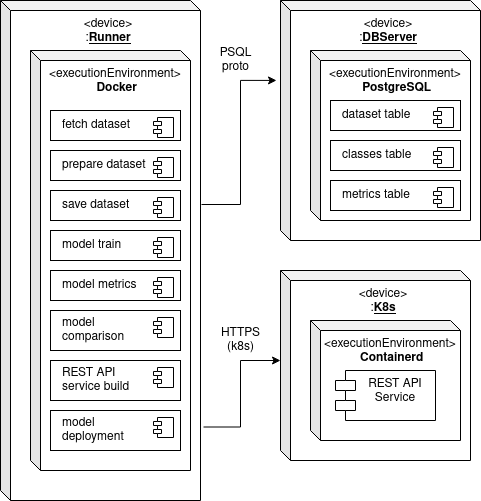
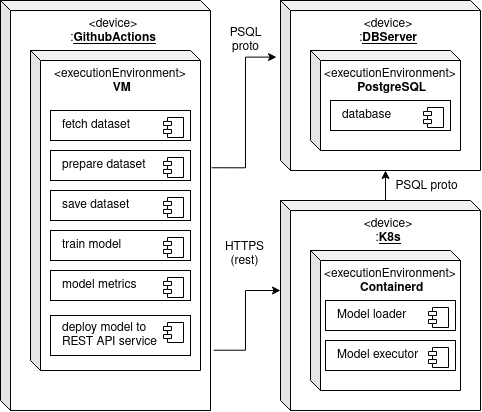
[news-category-classification] Fix descriptions & diagrams

Changed region(s): [[0.0, 0.0, 1.0, 1.0]]

diff --git a/docs/project/news-category-classification/README.md b/docs/project/news-category-classification/README.md
@@ -5,17 +5,17 @@
 
 #### Цель 
 
-Автоматизировать процесс поиска новых сотрудников в компанию: увеличить скорость "сканирования" резюме кандидатов за счет автоматической кластеризации поступающих резюме по вакансиям в компании.
+Автоматизировать классификацию текстов новостных статей по категориям.
 
 #### Задачи
 1. Проанализировать существующие решения
-2. Загрузка датасета, с возможностью инкрементального добавления данных
-3. Первичная обработка данных 
+2. Реализовать загрузку датасета, с возможностью инкрементального добавления данных
+3. Выполнить первичную обработку данных
 4. Обучение моделей на датасете (или его части)
-5. Оценка результатов обучения: метрики `precision`, `recall`, `f1-score` и `accuracy`
-6. Оценка времени работы модели
-7. Выбор модели с наибольшим соотношением точность/время работы
-8. Развёртывание модели
+5. Произвести оценку результатов обучения: метрики precision, recall и accuracy
+6. Выполнить оценку времени работы модели
+7. Выбрать модели с наибольшим соотношением точность/время работы
+8. Развёрнуть модель для использования в REST API сервисе
 
 
 #### Датасет
@@ -47,7 +47,7 @@
 - Имеется набор категорий с большим кол-вом примеров - 12 категорий имеют >5 тыс. записей.
 - Тексты статей представлены в свободной форме, что даёт возможность использования моделей и на других текстах, написанных в произвольной форме.
 
-#### [Ссылка на репозитрий проекта](https://gitlab.90victor09.ru/90victor09/ai-arch)
+#### [Ссылка на репозитрий проекта](https://github.com/90victor09/ahri)
 
 #### Deployment diagram
 
